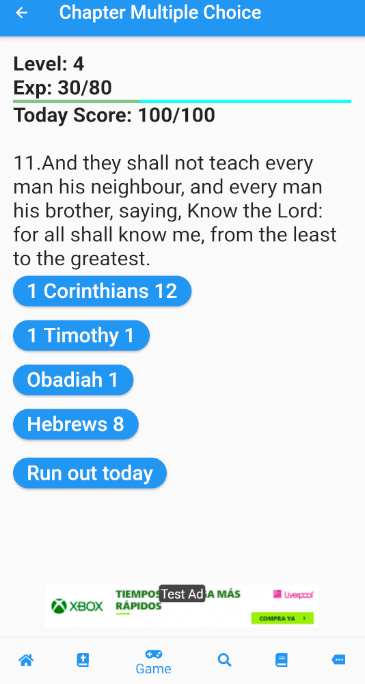
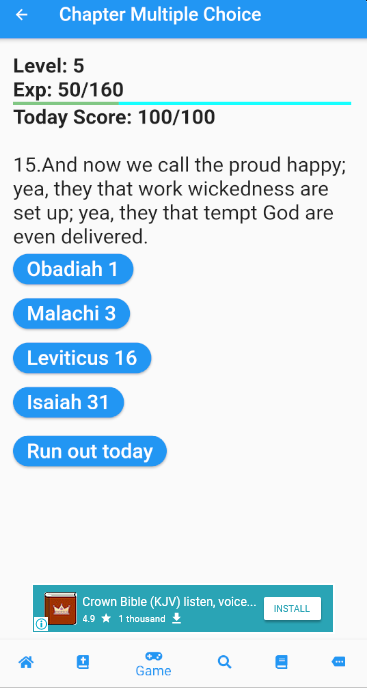
3.15

diff --git a/bibleapp/lib/page/home_page.dart b/bibleapp/lib/page/home_page.dart
@@ -86,28 +86,43 @@ class _HomePageState extends State<HomePage> {
       //currentLang = Locale('en','US');
       //prefs.setString(sharePrefDisplayLanguage, languageTextValue[0]); 
     int tempBannerPosition = 160;
-    if(Platform.isAndroid)
-    {
-      if(ScreenUtil.screenHeight<=480)
-        tempBannerPosition = 195;
-    }
-    else {
-    if(ScreenUtil.screenHeight<=480)
-      tempBannerPosition = 195;
-    else if(ScreenUtil.screenHeight<=960)
-      tempBannerPosition = 290;  
-    else if(ScreenUtil.screenHeight<=1136)
-      tempBannerPosition = 240;  
-    else if(ScreenUtil.screenHeight<=1334)
-      tempBannerPosition = 210;  
-    else if(ScreenUtil.screenHeight<=1776)
-      tempBannerPosition = 200; 
-    else if(ScreenUtil.screenHeight<=2488)
-      tempBannerPosition = 160;   
-    else if(ScreenUtil.screenHeight<=2688)
-      tempBannerPosition = 140; 
-    else if (ScreenUtil.screenHeight < 2788) tempBannerPosition = 130;
-    }
+    if (Platform.isAndroid) {
+
+        if (ScreenUtil.screenHeight <= 480) tempBannerPosition = 195;
+
+      } else {
+
+        if (ScreenUtil.screenHeight <= 480)
+
+          tempBannerPosition = 185;
+
+        else if (ScreenUtil.screenHeight <= 960)
+
+          tempBannerPosition = 290;
+
+        else if (ScreenUtil.screenHeight <= 1136)
+
+          tempBannerPosition = 210;
+
+        else if (ScreenUtil.screenHeight <= 1334)
+
+          tempBannerPosition = 210;
+
+        else if (ScreenUtil.screenHeight <= 1776)
+
+          tempBannerPosition = 200;
+
+        else if (ScreenUtil.screenHeight <= 2488)
+
+          tempBannerPosition = 160;
+
+        else if (ScreenUtil.screenHeight <= 2688)
+
+          tempBannerPosition = 140;
+
+        else if (ScreenUtil.screenHeight < 2788) tempBannerPosition = 120;
+
+      }
       
       
       _bannerAd ??= createBannerAd();
